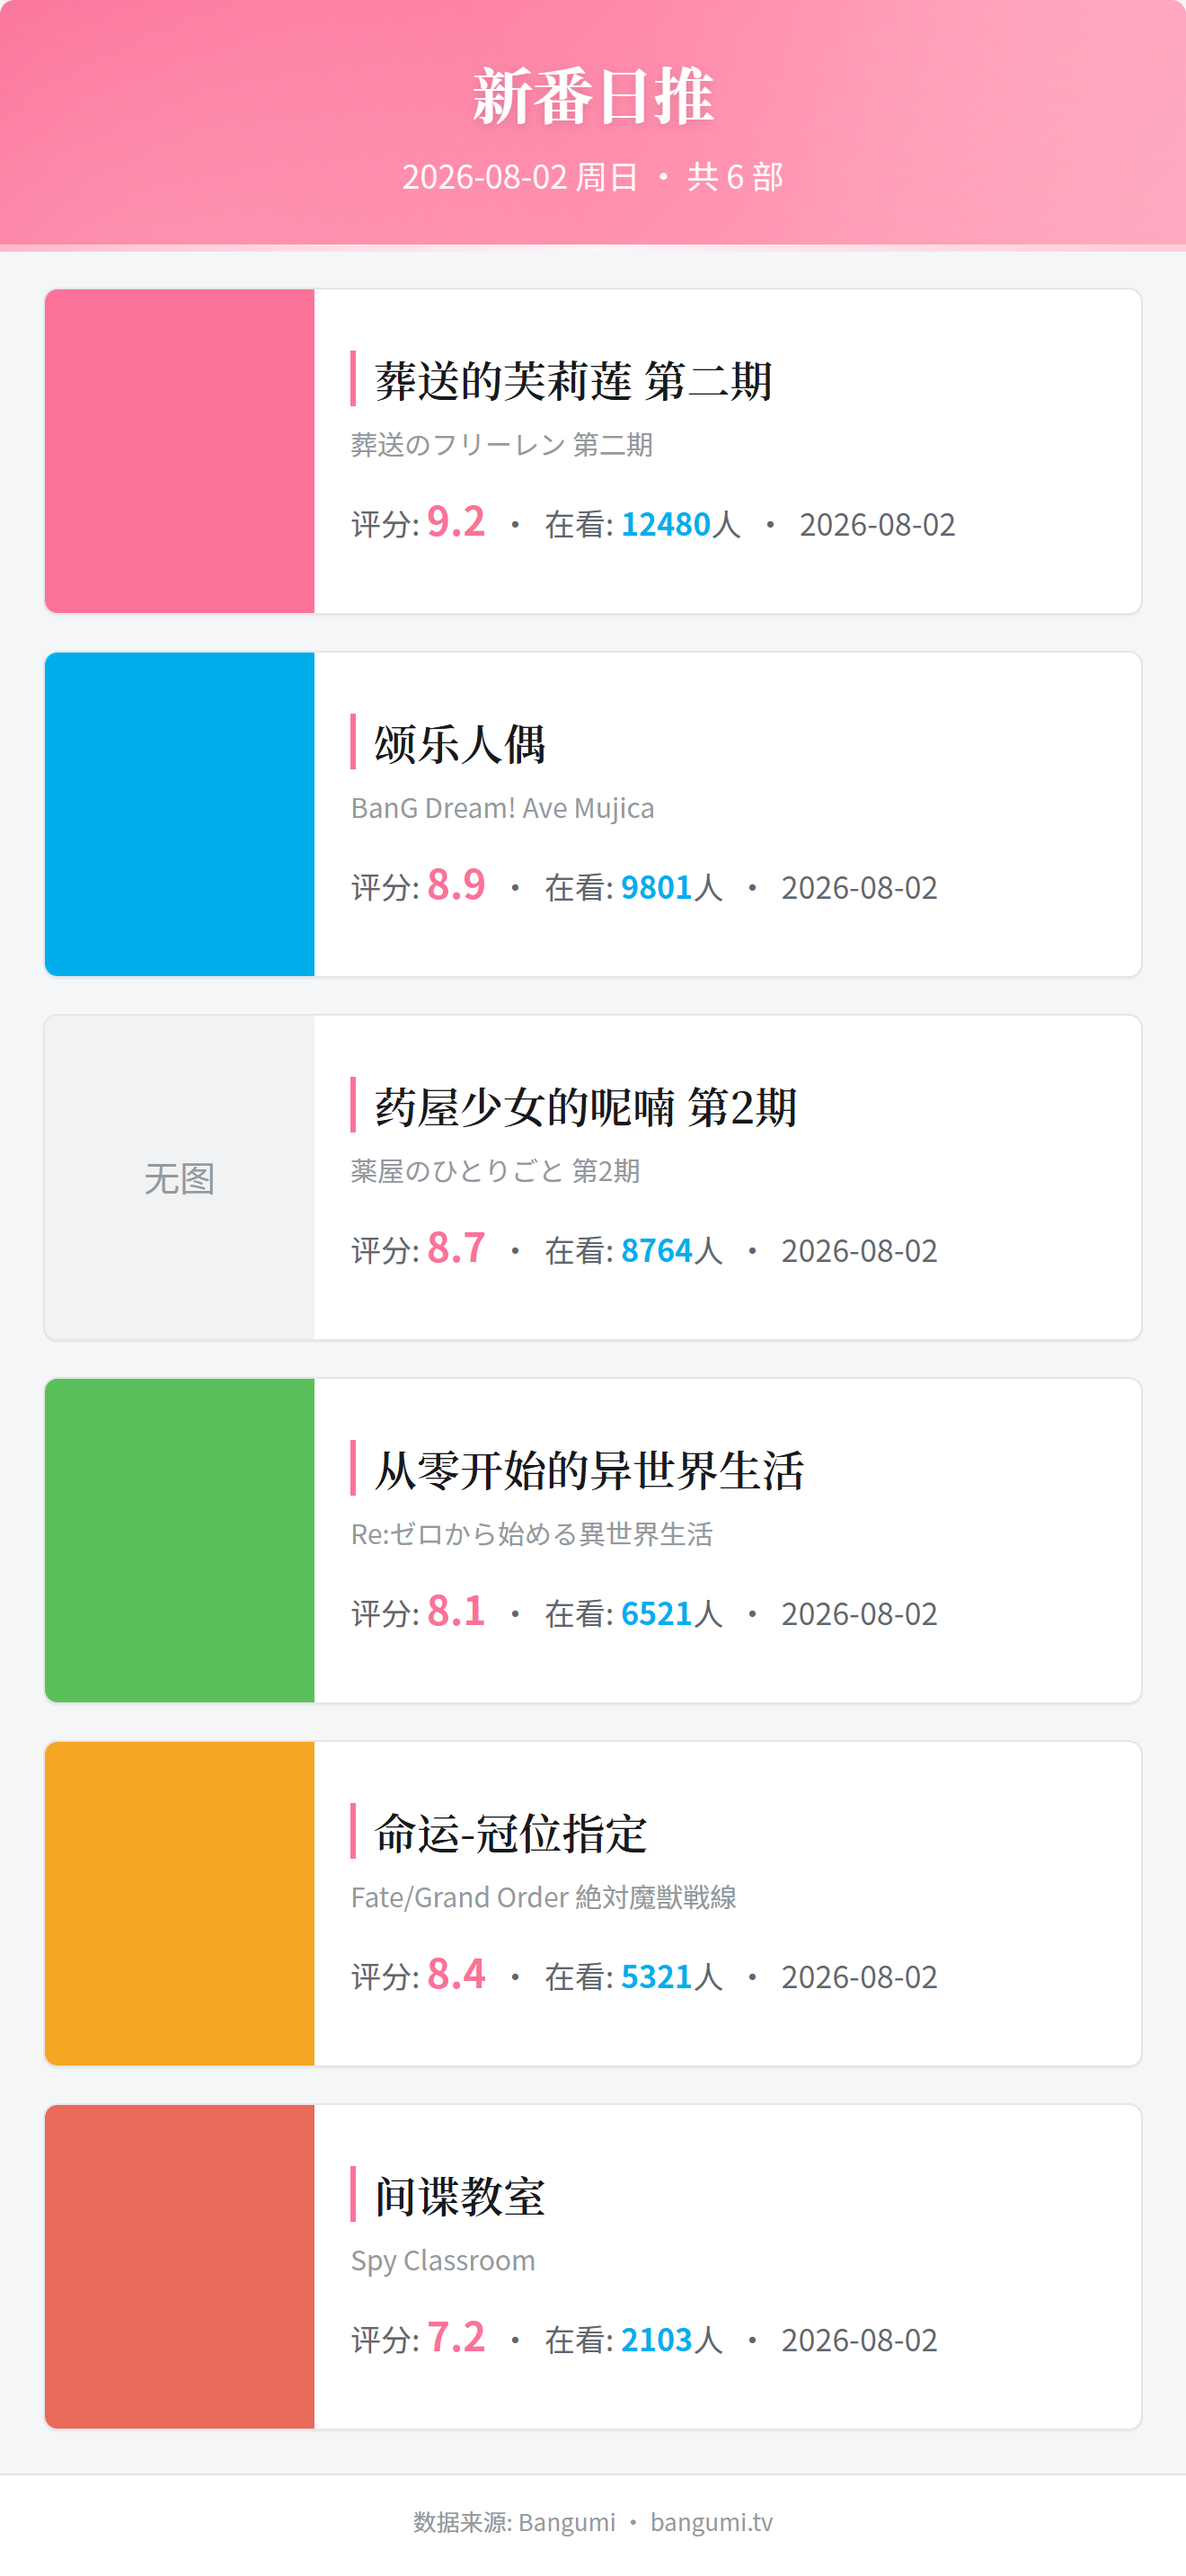
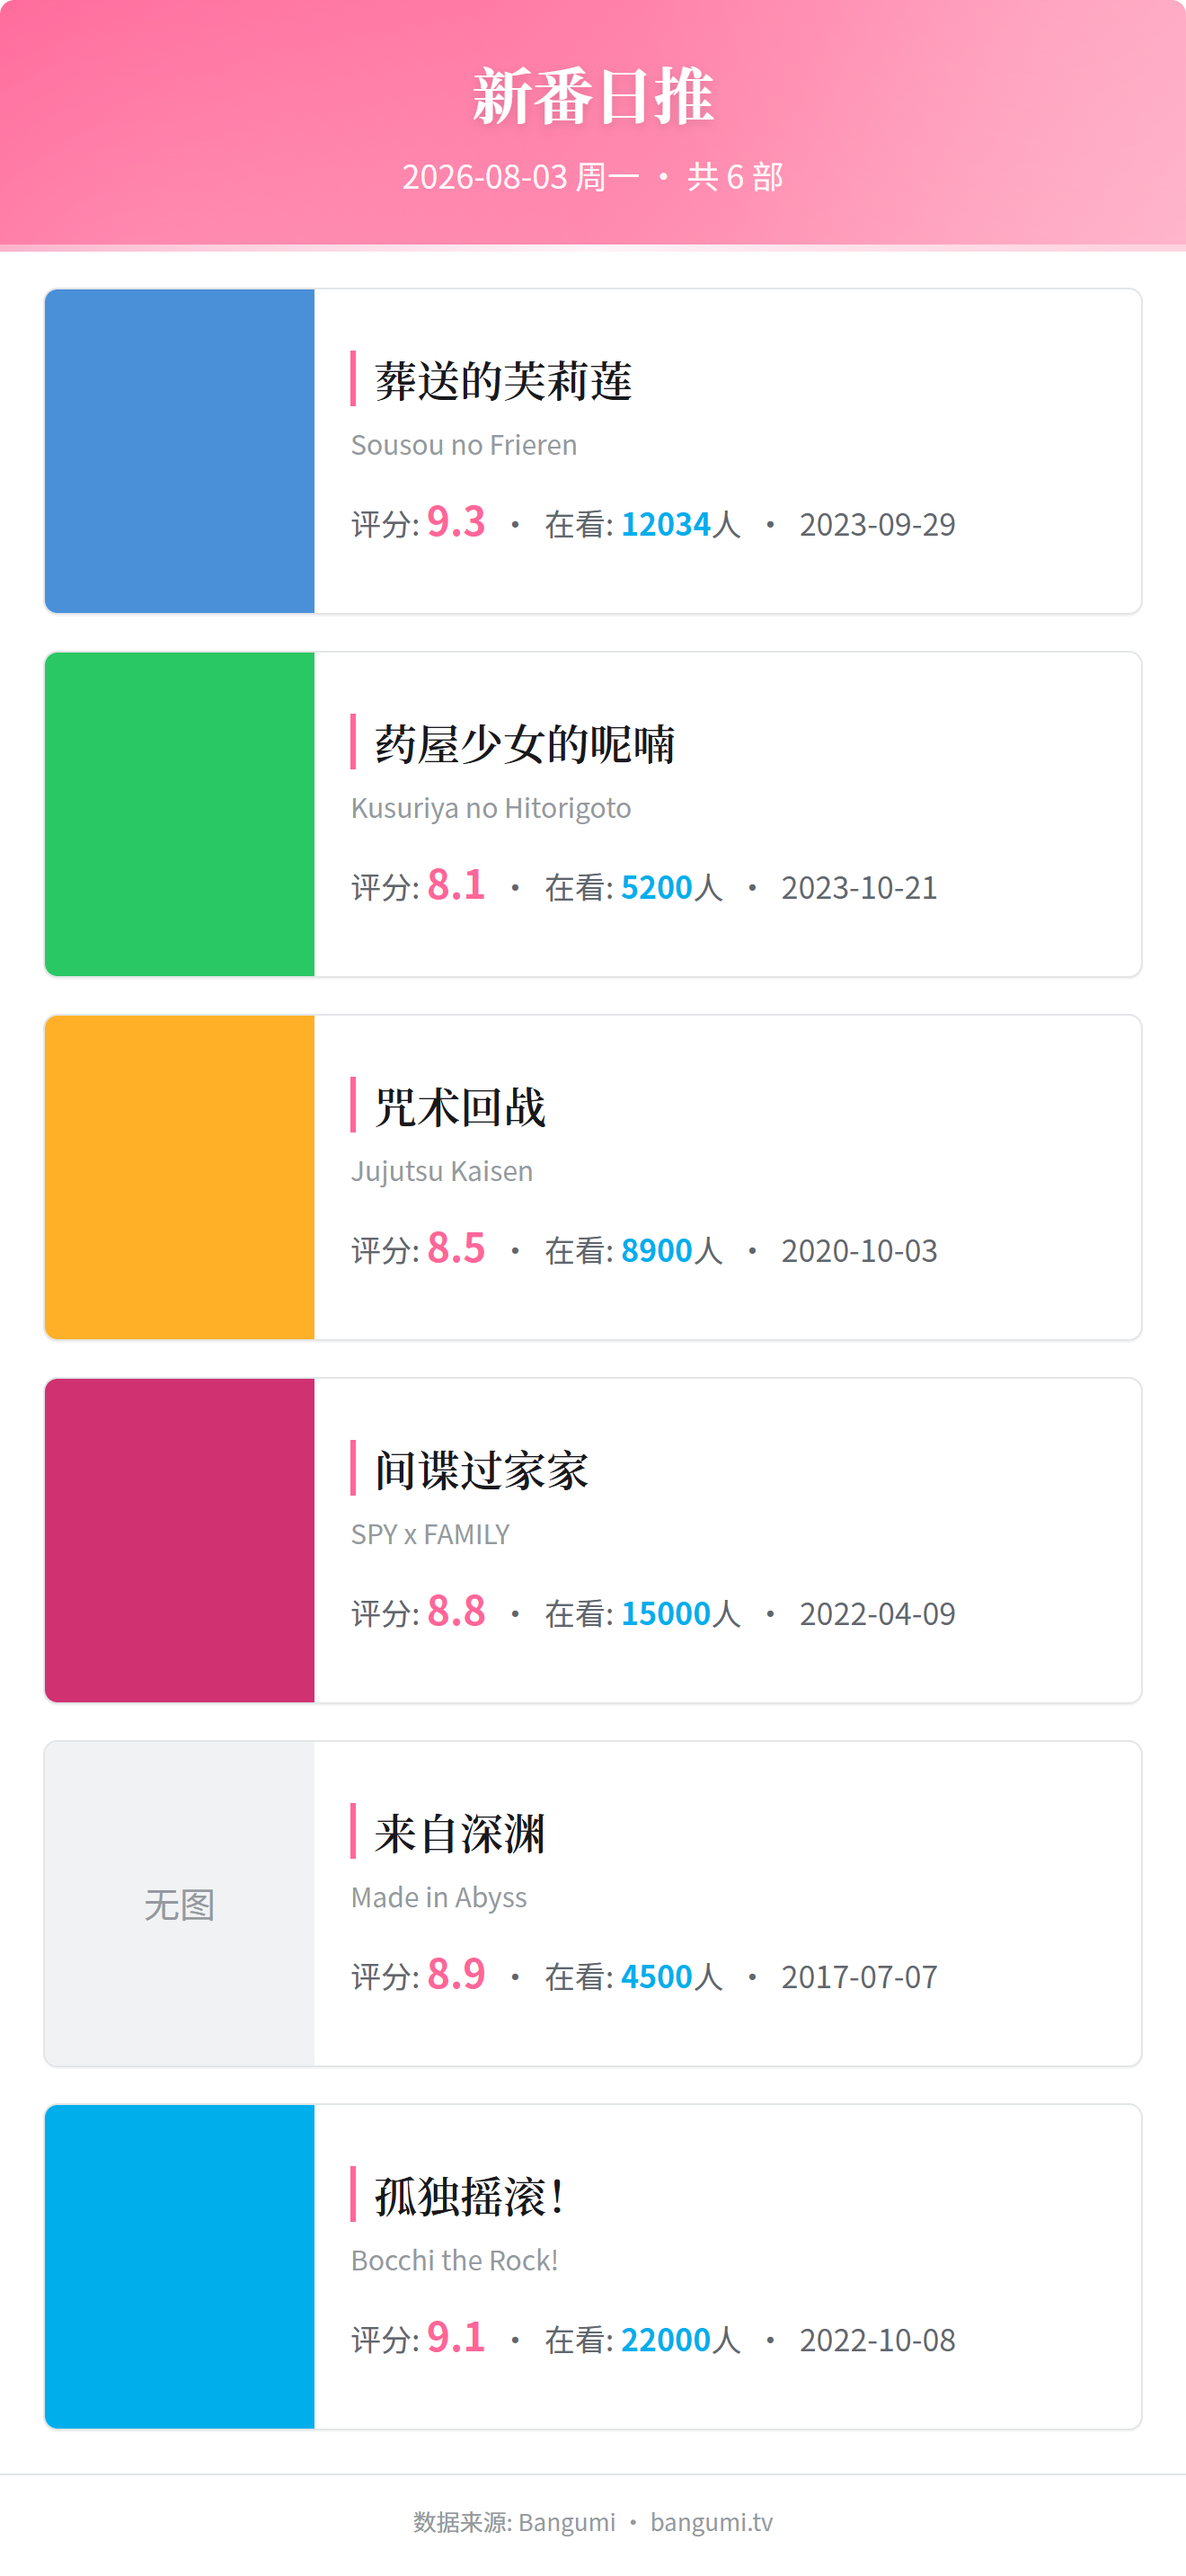
style: refresh card template with official bilibili palette

diff --git a/card.py b/card.py
@@ -1,7 +1,7 @@
 """HTML 卡片模板常量：Jinja2 语法，由 AstrBot 的 html_render 渲染为图片。
 
-设计规范：NoFizz-AstrBot 插件 UI 设计规范（Bilibili Web 设计系统 v1.3）。
-- 品牌粉 #FB7299 渐变头部 + 品牌蓝 #00AEEC 数据强调；浅色专用（聊天卡片渲染为
+设计规范：NoFizz-AstrBot 插件 UI 设计规范（Bilibili Web 设计系统 v1.4 官方色卡）。
+- 品牌粉 #FF6699 渐变头部 + 品牌蓝 #00AEEC 数据强调；浅色专用（聊天卡片渲染为
   PNG，无深色模式，故不引入 ``[data-theme="dark"]`` 变量块，但保留 ``:root``
   变量架构以便后续扩展）。
 - 思源宋体（标题）+ 思源黑体（正文）双字体回退链（规范 §2.1）。
@@ -21,20 +21,20 @@ HTML_TMPL = '''
   <meta charset="UTF-8">
   <meta name="viewport" content="width=660, initial-scale=1.0, maximum-scale=1.0, user-scalable=no">
   <style>
-    /* Bilibili 设计系统变量（规范 :root 块，浅色适配）：聊天卡片固定浅色，无深色模式 */
+    /* Bilibili 设计系统变量（规范 §〇 :root 块，v1.4 官方色卡，浅色适配）：聊天卡片固定浅色，无深色模式 */
     :root {
-      --bg: #F5F6F8;              /* 页面背景（B站极浅灰） */
-      --card-bg: #FFFFFF;         /* 卡片背景 */
-      --text: #18191C;            /* 标题/正文（近黑） */
-      --text-secondary: #61666D;  /* 次要文字 */
-      --text-muted: #9499A0;      /* 辅助/弱化文字 */
-      --primary: #00AEEC;         /* 品牌蓝（在看人数等数据强调） */
-      --accent: #FB7299;          /* 品牌粉（头部/评分/标题竖条） */
-      --on-accent: #FFFFFF;       /* 品牌粉底上的文字 */
-      --subtle: #F1F2F3;          /* 次面背景（封面占位底） */
-      --border: #E3E5E7;          /* 边框 */
-      --card-border: #E3E5E7;     /* 卡片边框 */
-      --accent-soft: #FFE9F0;     /* 浅粉底 */
+      --bg: #FFFFFF;              /* 页面背景 = 官方 --bg1 */
+      --card-bg: #FFFFFF;         /* 卡片背景 = 官方 --bg1_float */
+      --text: #18191C;            /* 标题/正文（近黑）= 官方 --text1 */
+      --text-secondary: #61666D;  /* 次要文字 = 官方 --text2 */
+      --text-muted: #9499A0;      /* 辅助/弱化文字 = 官方 --text3 */
+      --primary: #00AEEC;         /* 品牌蓝（在看人数等数据强调）= 官方 --brand_blue */
+      --accent: #FF6699;          /* 品牌粉（头部/评分/标题竖条）= 官方 --brand_pink / --Pi5 */
+      --on-accent: #FFFFFF;       /* 品牌粉底上的文字 = 官方 --text_white */
+      --subtle: #F1F2F3;          /* 次面背景（封面占位底）= 官方 --graph_bg_regular */
+      --border: #E3E5E7;          /* 边框 = 官方 --line_regular / --Ga2 */
+      --card-border: #E3E5E7;     /* 卡片边框 = 官方 --line_regular / --Ga2 */
+      --accent-soft: #FFECF1;     /* 浅粉底 = 官方 --brand_pink_thin / --Pi1 */
       --radius-sm: 4px;           /* 操作元素圆角 */
       --radius: 6px;              /* toast 圆角 */
       --radius-lg: 8px;           /* 大卡片圆角 */
@@ -57,14 +57,14 @@ HTML_TMPL = '''
       overflow-x: hidden;
     }
 
-    /* 头部：品牌粉渐变 + 白色高光圆斑，底部透明白渐变指示条 */
+    /* 头部：品牌粉渐变（官方色阶 Pi5→Pi4→Pi3）+ 白色高光圆斑，底部透明白渐变指示条 */
     .header {
       position: relative; text-align: center;
       padding: 32px 24px 28px;
       background:
         radial-gradient(circle at 12% 130%, rgba(255, 255, 255, 0.16), transparent 42%),
         radial-gradient(circle at 90% -30%, rgba(255, 255, 255, 0.14), transparent 40%),
-        linear-gradient(135deg, #FB7299 0%, #FF8FAD 55%, #FFA8BF 100%);
+        linear-gradient(135deg, #FF6699 0%, #FF8CB0 60%, #FFB3CA 100%);
       border-radius: var(--radius-lg) var(--radius-lg) 0 0;
     }
     .header::after {
